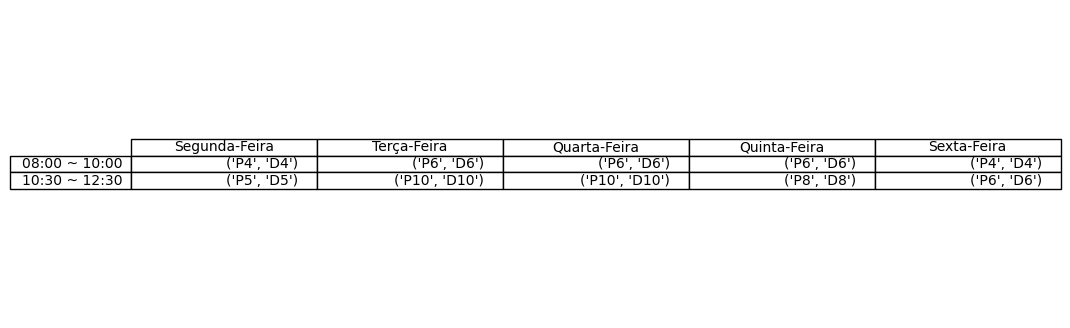
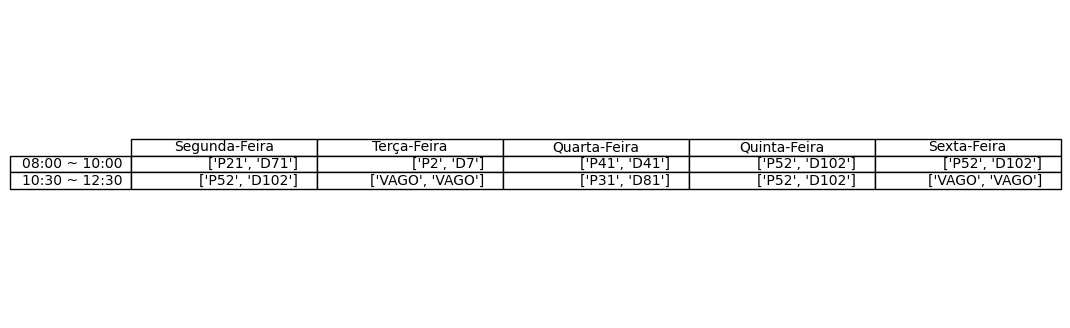
update GA

diff --git a/grasp/ga.py b/grasp/ga.py
@@ -1,0 +1,296 @@
+import random
+import numpy as np
+import pandas as pd
+from pyeasyga import pyeasyga #pip install pyeasyga
+# from pyeasyga.pyeasyga import pyeasyga #!git clone https://github.com/remiomosowon/pyeasyga.git
+
+### CONSTANTES GLOBAIS ###
+
+# SEPARADOR CSV
+SEPARADOR_CSV = ';'
+
+# INDICES DA SOLUCAO [ORDEM_GRADE, VALOR_FITNESS]
+INDICE_GRADE = 0
+INDICE_FITNESS = 1
+
+# CONFIGURACAO DA GRADE ESCOLAR
+TOTAL_DIAS = 5
+TOTAL_SALAS = 5
+TOTAL_HORARIOS_DIA = 2
+TOTAL_AULAS_DIA = TOTAL_SALAS * TOTAL_HORARIOS_DIA
+TOTAL_HORARIOS_GRADE = TOTAL_DIAS * TOTAL_SALAS * TOTAL_HORARIOS_DIA
+DIAS_DA_SEMANA = ['Segunda','Terça','Quarta','Quinta','Sexta']
+
+# REPRESENTACAO HORARIO VAGO NA GRADE
+HORARIO_VAGO = 'VAGO'
+
+# INDICES (POSICOES) DOS ELEMENTOS NOS VETORES 
+# PROF_DISC_HORA [PROFESSOR, DISCIPLINA, HORARIOS, DISPONIBILIDADE] E 
+# AULAS [PROFESSOR, DISCIPLINA]
+INDICE_PROFESSOR = 0
+INDICE_DISCIPLINA = 1
+INDICE_HORARIOS = 2
+INDICE_DISPONIBILIDADE = 3
+
+# VALOR BINARIO QUE REPRESENTA SE O PROFESSOR DISPONIVEL/INDISPONIVEL
+PROFESSOR_INDISPONIVEL = 0
+
+# VALORES PADRAO PARA O GA
+PADRAO_TAMANHO_POPULACAO=200
+PADRAO_GERACOES=100
+PADRAO_PROBABILIDADE_CROSSOVER=0.8
+PADRAO_PROBABILIDADE_MUTACAO=0.5
+PADRAO_ELITISMO=True
+PADRAO_VERBOSE=True
+PADRAO_MAXIMIZAR_FITNESS=False
+
+### FIM CONSTANTES GLOBAIS
+
+### VARIAVEIS GLOBAIS
+
+aulas = [[[HORARIO_VAGO,HORARIO_VAGO] for _ in range(TOTAL_HORARIOS_GRADE)] ]
+disponibilidade_professores = {}
+
+### FIM VARIAVEIS GLOBAIS
+
+# Carrega a configuracao da Grade a partir de um arquivo CSV
+# Definição de:
+# 1) Professores
+# 2) Disciplinas
+# 3) Aulas [Professor, Disciplina] 
+# 4) Quantidade de horarios que uma aula deve ter por semana
+# 5) Indisponibilidade de horarios dos professores  
+# Retorna o conjunto de Aulas Totais = [Professor, Disciplina] 
+# e a Disponibilidade dos Professores
+
+def carrega_configuracao(url_config):
+    prof_disc_hora = pd.read_csv(url_config, sep = SEPARADOR_CSV)
+    prof_disc_hora = prof_disc_hora.values
+    # preenche um vetor com 50 posicoes do tipo HORARIO_VAGO
+    grade_completa = [[HORARIO_VAGO,HORARIO_VAGO] for _ in range(TOTAL_HORARIOS_GRADE)] 
+    # Disponibilidades dos professores
+    disponibilidades = {}
+    # Se a quantidade de aulas < 50 a lista de aulas termina com valores VAGO
+    contador = 0;
+    for i in range(0, prof_disc_hora.shape[0]):
+        aula = prof_disc_hora[i] 
+        qtde_horarios_aula = aula[INDICE_HORARIOS]
+        disponibilidade = aula[INDICE_DISPONIBILIDADE]
+        professor = aula[INDICE_PROFESSOR]
+        disciplina = aula[INDICE_DISCIPLINA]
+        if professor not in disponibilidades:
+            disp_binaria = list(map(int, list(bin(disponibilidade)[2:].zfill(10))))
+            disp_binaria.reverse()
+            disponibilidades[professor] = disp_binaria
+        for j in range(0, qtde_horarios_aula):
+          grade_completa[contador] = [professor, disciplina]
+          contador += 1;
+  
+    return grade_completa, disponibilidades
+
+# Define a funcao que cria uma representacao de uma solucao candidata
+def cria_individuo(dados_iniciais):
+    individuo = dados_iniciais[:]
+    random.shuffle(individuo)
+    return individuo
+
+# Define a operacao de Crossover do GA
+def crossover(pai_1, pai_2):
+    crossover_indice = random.randrange(1, len(pai_1))
+    filho_1a = pai_1[:crossover_indice]
+    filho_1b = [i for i in pai_2 if i not in filho_1a]
+    filho_1 = filho_1a + filho_1b
+
+    filho_2a = pai_2[crossover_indice:]
+    filho_2b = [i for i in pai_1 if i not in filho_2a]
+    filho_2 = filho_2a + filho_2b
+
+    return filho_1, filho_2
+
+# Define a operacao de Mutacao do GA
+def mutacao(individuo):
+    mutacao_indice1 = random.randrange(len(individuo))
+    mutacao_indice2 = random.randrange(len(individuo))
+    individuo[mutacao_indice1], individuo[mutacao_indice2] = individuo[mutacao_indice2], individuo[mutacao_indice1]
+
+# Define como aleatoria a operacao de Selecao do GA - PADRAO = TOURNAMENT
+#def selecao(populacao):
+#    return random.choice(populacao)
+
+# Define a função de fitness
+def fitness (individuo, dados_iniciais):
+    posicoes_grade = individuo
+
+    # PESO DAS VIOLACOES NA FUNCAO OBJETIVO (FITNESS)
+    PESO_PROF_INDISPONIVEL = 1
+    PESO_PROF_MESMO_HORARIO = 1
+    PESO_DISC_MESMO_DIA_SALA_DIFER = 0.1
+    PESO_DISC_MESMO_DIA_SALA_IGUAL = 0.05
+    PESO_PRIMEIRO_HORARIO_VAGO = 0.1
+    PESO_SEGUNDO_HORARIO_VAGO = 0.05
+    
+    violacoes = 0;
+    
+    # preencher todas as 50 posicoes com o mesmo valor HORARIO_VAGO
+    grade = [[HORARIO_VAGO,HORARIO_VAGO] for _ in range(TOTAL_HORARIOS_GRADE)]  
+
+    #Transforma as lista de posicoes em um grade com as aulas
+    for i in range(len(posicoes_grade)):
+        grade[i] = aulas[posicoes_grade[i]]
+        # Verifica se o professor esta disponivel nesse horario
+        professor_atual = grade[i][INDICE_PROFESSOR]
+        if professor_atual != HORARIO_VAGO and disponibilidade_professores[professor_atual][i%TOTAL_SALAS] ==  PROFESSOR_INDISPONIVEL:
+            violacoes += PESO_PROF_INDISPONIVEL
+    
+    
+    # A mesma sala não poderá ter mais de uma aula ao mesmo tempo;
+    # Essa restrição é atendida sempre devido a forma como a grade é montada
+
+    # 1) A mesma aula não poderá acontecer simultaneamente em salas diferentes;
+    # 2) Um professor não poderá dar 2 ou mais aulas ao mesmo tempo;
+    # A premissa 2) já engloba a premissa 1) pois cada disciplina
+    # tem sempre o mesmo professor
+    
+    for dia in range(TOTAL_DIAS):
+        for horario in range(TOTAL_HORARIOS_DIA):
+            for sala_atual in range(TOTAL_SALAS):
+                evento_atual = dia*TOTAL_DIAS*TOTAL_HORARIOS_DIA+horario*TOTAL_SALAS+sala_atual 
+                professor_atual = grade[evento_atual][INDICE_PROFESSOR]
+                if (professor_atual != HORARIO_VAGO):
+                    for proxima_sala in range(sala_atual+1,TOTAL_SALAS):
+                        proximo_evento = dia*TOTAL_DIAS*TOTAL_HORARIOS_DIA+horario*TOTAL_SALAS+proxima_sala
+                        proximo_professor = grade[proximo_evento][INDICE_PROFESSOR]
+                        if (professor_atual == proximo_professor):
+                            #return PESO_PROF_MESMO_HORARIO #Hard Constraint Professor no mesmo horario violada
+                            violacoes += PESO_PROF_MESMO_HORARIO
+                            # evita a recontagem quando o mesmo professor 
+                            # aparece mais de 2 vezes no mesmo dia e horario
+                            #break
+
+
+    # Caso a carga horária de uma aula seja maior que um 1 horário por semana,
+    # é desejável que as aulas não sejam na sequência imediata (mesmo dia);
+    # Como é uma premissa desejável e não obrigatória o peso da violacao é 0.1
+
+    for dia in range(TOTAL_DIAS):
+        for sala_h1 in range(TOTAL_SALAS):
+            evento_h1 = dia*TOTAL_DIAS*TOTAL_HORARIOS_DIA+sala_h1
+            disciplina_h1 = grade[evento_h1][INDICE_DISCIPLINA]
+            if (disciplina_h1 != HORARIO_VAGO):
+                for sala_h2 in range(TOTAL_SALAS):
+                    evento_h2 = dia*TOTAL_DIAS*TOTAL_HORARIOS_DIA+sala_h2+TOTAL_SALAS
+                    disciplina_h2 = grade[evento_h2][INDICE_DISCIPLINA]
+                    if (disciplina_h1 == disciplina_h2): # a mesma disciplina acontece no mesmo dia
+                        if (sala_h1 == sala_h2): # se for na mesma sala a penalizacao reduz pela metade
+                            violacoes+=PESO_DISC_MESMO_DIA_SALA_IGUAL
+                        else:
+                            violacoes+=PESO_DISC_MESMO_DIA_SALA_DIFER
+                        # Quando as disciplinas sao iguais no horario 1 e 2
+                        # Nao é necessario verificar outras salas no horario 2
+                        # pois só vai haver a novamente a penalização se houver
+                        # a mesma disciplina no mesmo horário em salas diferentes
+                        # Mas isso a regra anterior já penalizou assim para 
+                        # não penalizar novamente o laço é interrompido
+                        break 
+    
+
+    # É desejável que não existam buracos (horários/salas sem aula)
+    # na grade de horário
+    # Considera-se o número total de posicoes da grade (salas*dias*horarios) = 50 
+    # Como é uma premissa desejável e não obrigatória o peso da violacao é:
+    # 0.1 Se o horário vago for o primeiro do dia
+    # 0.05 Se o horario vago for o segundo do dia
+    
+    posicao_final = TOTAL_HORARIOS_GRADE - 1;
+    while (posicao_final > -1 and grade[posicao_final][INDICE_PROFESSOR] == HORARIO_VAGO):
+        posicao_final -= 1
+    for i in range(0, posicao_final+1):
+        if (grade[i][INDICE_PROFESSOR] == HORARIO_VAGO):
+            if ((i // TOTAL_SALAS) % 2 == 0): # o horario sem aula é o primeiro do dia
+               violacoes+=PESO_PRIMEIRO_HORARIO_VAGO
+            else:
+               violacoes+=PESO_SEGUNDO_HORARIO_VAGO # o horario sem aula é o segundo do dia (penalização menor)
+
+
+    # OBS: Uma questao importante é saber se o peso da violacao 
+    # de deixar um horario vago deve ser o mesmo que 
+    # colocar a mesma disciplina em sequencia no dia
+
+    # O fitness (funcao objetivo) será :
+    # Melhor - quanto mais se aproximar de 0 (menos violacoes)
+    # Pior - quanto mais se aproximar de 1 (mais violacoes)
+    fitness = 1 - 1 / (violacoes + 1)
+    return fitness
+
+# Gera Grade a partir das Aulas e da Solucao (Posicoes) encontrada
+def gera_grade(aulas, solucao):
+    grade = [[] for _ in range(TOTAL_HORARIOS_GRADE)]
+    for i in range(len(solucao)):
+        grade[i] = aulas[solucao[i]]
+    return grade
+
+# Imprime a Solucao Encontrada [grade, valor fitness]
+def imprime_solucao(solucao):
+    grade = solucao[INDICE_GRADE]
+    for i in range(0,len(grade)):
+        dia = DIAS_DA_SEMANA[i // TOTAL_AULAS_DIA]
+        if (i % TOTAL_AULAS_DIA == 0):
+            print('\n\n',dia)
+        if (i % TOTAL_SALAS == 0):
+            print('\nHorario ', 1 + i % 2, '--------------------')
+        # imprime um conjunto [PROFESSOR,DISCIPLINA]    
+        print(grade[i], end = ' | ')
+    print('\nFitness da Solucao = ',solucao[INDICE_FITNESS])    
+    return
+
+
+# Funcao Principal de Controle
+
+def geleia_ga(url_config, 
+              tamanho_populacao=PADRAO_TAMANHO_POPULACAO,
+              geracoes=PADRAO_GERACOES,
+              probabilidade_crossover=PADRAO_PROBABILIDADE_CROSSOVER,
+              probabilidade_mutacao=PADRAO_PROBABILIDADE_MUTACAO,
+              elitismo=PADRAO_ELITISMO,
+            #   verbose=PADRAO_VERBOSE, #SOMENTE NA VERSAO DO GIT DA LIBRARY
+              maximizar_fitness=PADRAO_MAXIMIZAR_FITNESS):
+
+    # Carrega as variaveis globais a partir do arquivo de configuracao
+    global aulas, disponibilidade_professores
+    aulas, disponibilidade_professores = carrega_configuracao(url_config) 
+    
+    # Define os dados iniciais (lista com todas as posicoes da grade (0-49))
+    dados_iniciais = list(range(0,TOTAL_HORARIOS_GRADE))
+
+    # Inicializacao do GA
+    ga = pyeasyga.GeneticAlgorithm(dados_iniciais,
+                                    population_size=tamanho_populacao,
+                                    generations=geracoes,
+                                    crossover_probability=probabilidade_crossover,
+                                    mutation_probability=probabilidade_mutacao,
+                                    elitism=elitismo,
+                                    # verbose=verbose, #SOMENTE NA VERSAO DO GIT
+                                    maximise_fitness=maximizar_fitness)
+    
+    # Define a funcao que cria uma representacao de uma solucao candidata
+    ga.create_individual = cria_individuo
+
+    # Define a operacao de Crossover do GA
+    ga.crossover_function = crossover
+
+    # Define a operacao de Mutacao do GA
+    ga.mutate_function = mutacao
+
+    # Define a operacao de Selecao do GA - PADRAO = TOURNAMENT
+    #ga.selection_function = selecao
+
+    # Define a função de fitness
+    ga.fitness_function = fitness      
+    
+    # Executa o GA
+    ga.run()                            
+
+    grade = gera_grade(aulas, ga.best_individual()[1])
+    solucao = [grade, ga.best_individual()[0]]
+    
+    return solucao

diff --git a/st_main.py b/st_main.py
@@ -8,8 +8,9 @@ import time
 import os
 
 from grasp import principal
+from grasp import ga
 
-url = 'http://docs.google.com/spreadsheets/d/1mWAnNjDJuNG-NpchdUmDjzPzAsuhg1b50W7x02ORhG0/template/preview'
+url = 'https://docs.google.com/spreadsheets/d/1aW7UF_39EvxF_X4GnAKx1JOwjAPlNarZo3GAD4olM6A/template/preview'
 
 HORARIOS = ['08:00 ~ 10:00','10:30 ~ 12:30']
 DIAS_SEMANA=['Segunda-Feira','Terça-Feira','Quarta-Feira','Quinta-Feira','Sexta-Feira']
@@ -63,7 +64,9 @@ my_bar = st.progress(0)
 
 with st.spinner('Processando...'):
     if uploaded_file is not None:
-        result = principal.principal(url_caso_de_teste=uploaded_file,max_iteracoes=100,calcula_solucao_inicial=False)
+        # result = principal.principal(url_caso_de_teste=uploaded_file,max_iteracoes=100,calcula_solucao_inicial=False)
+        result = ga.geleia_ga(url_config=uploaded_file)
+        # print(result)
         result = result[0]
 
         # print(result)
